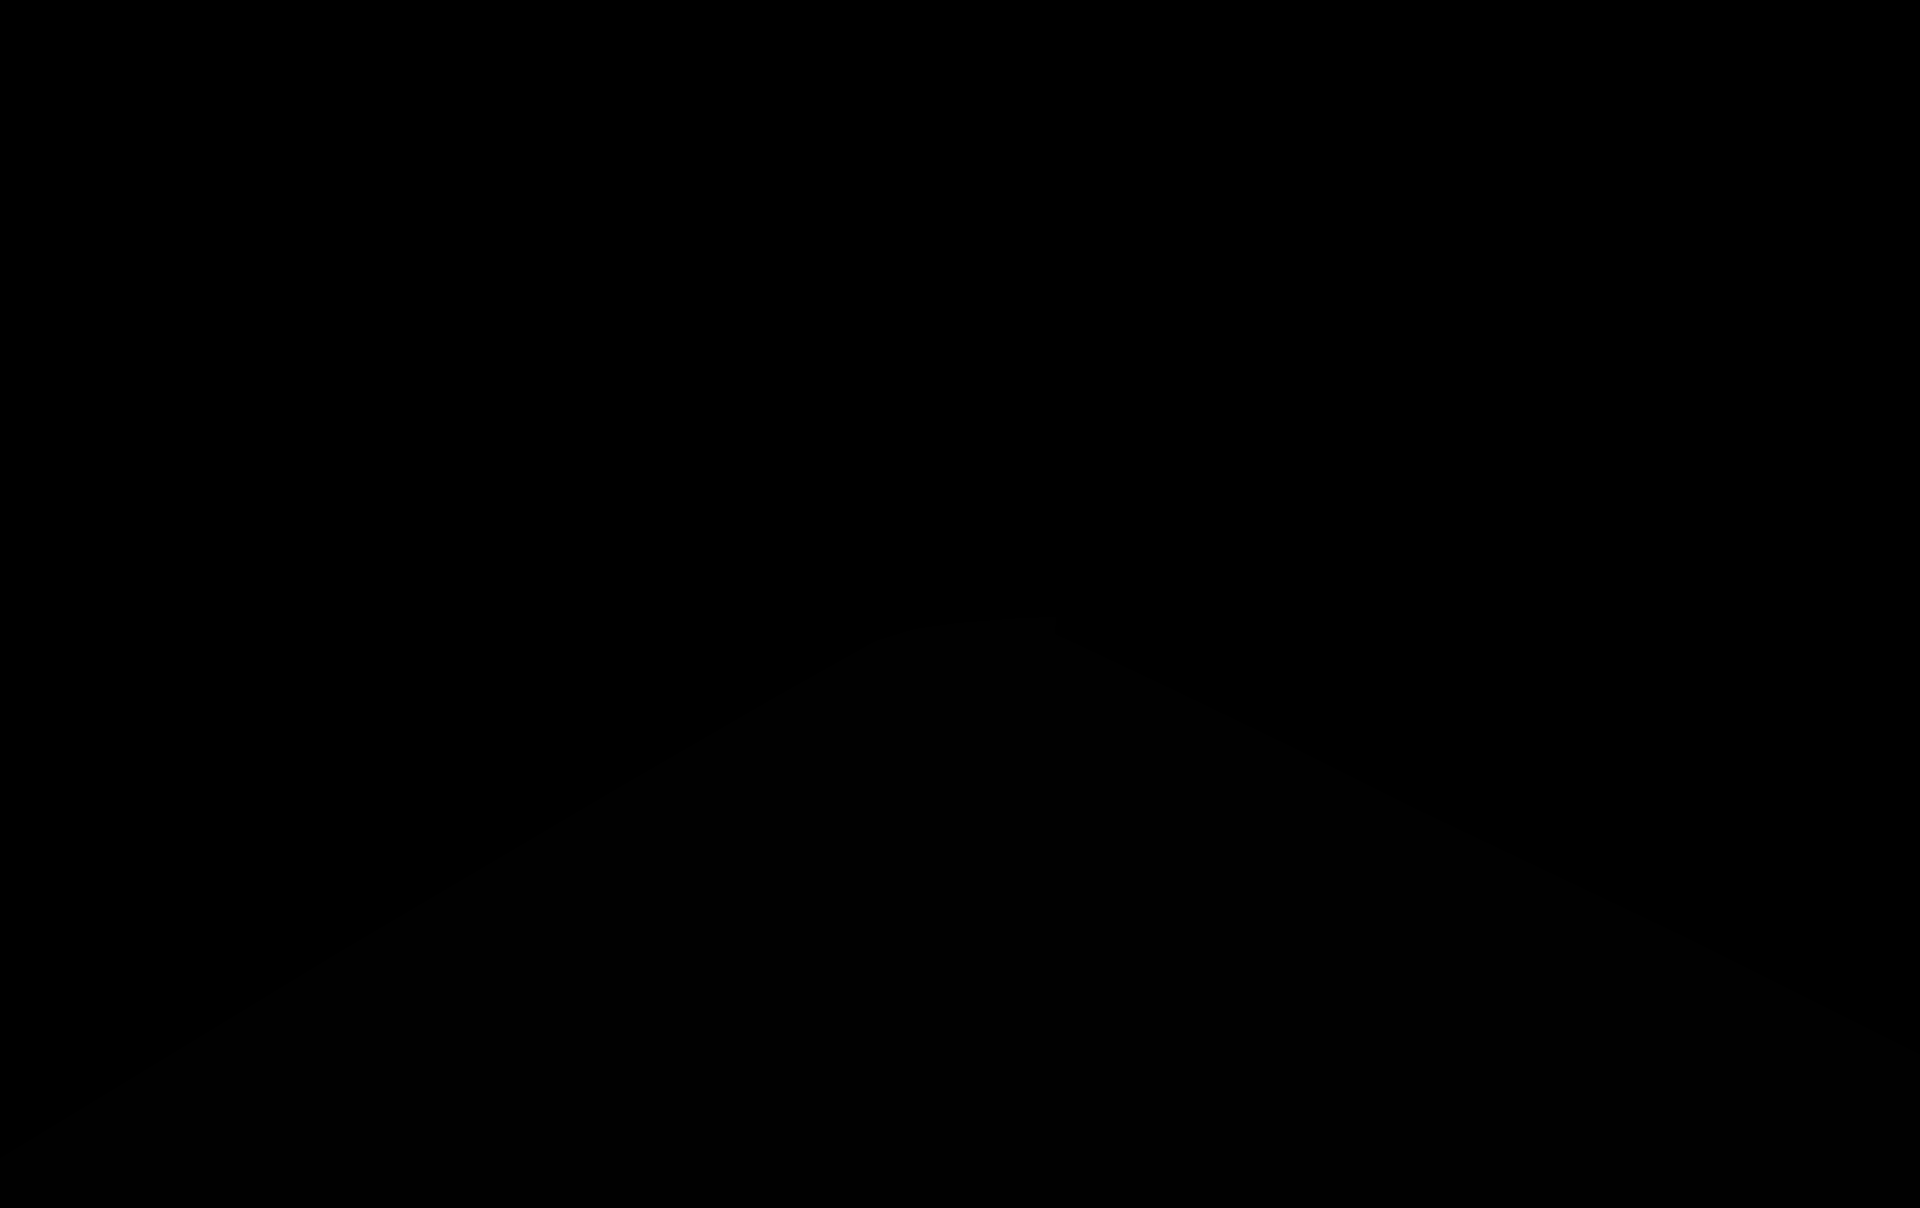
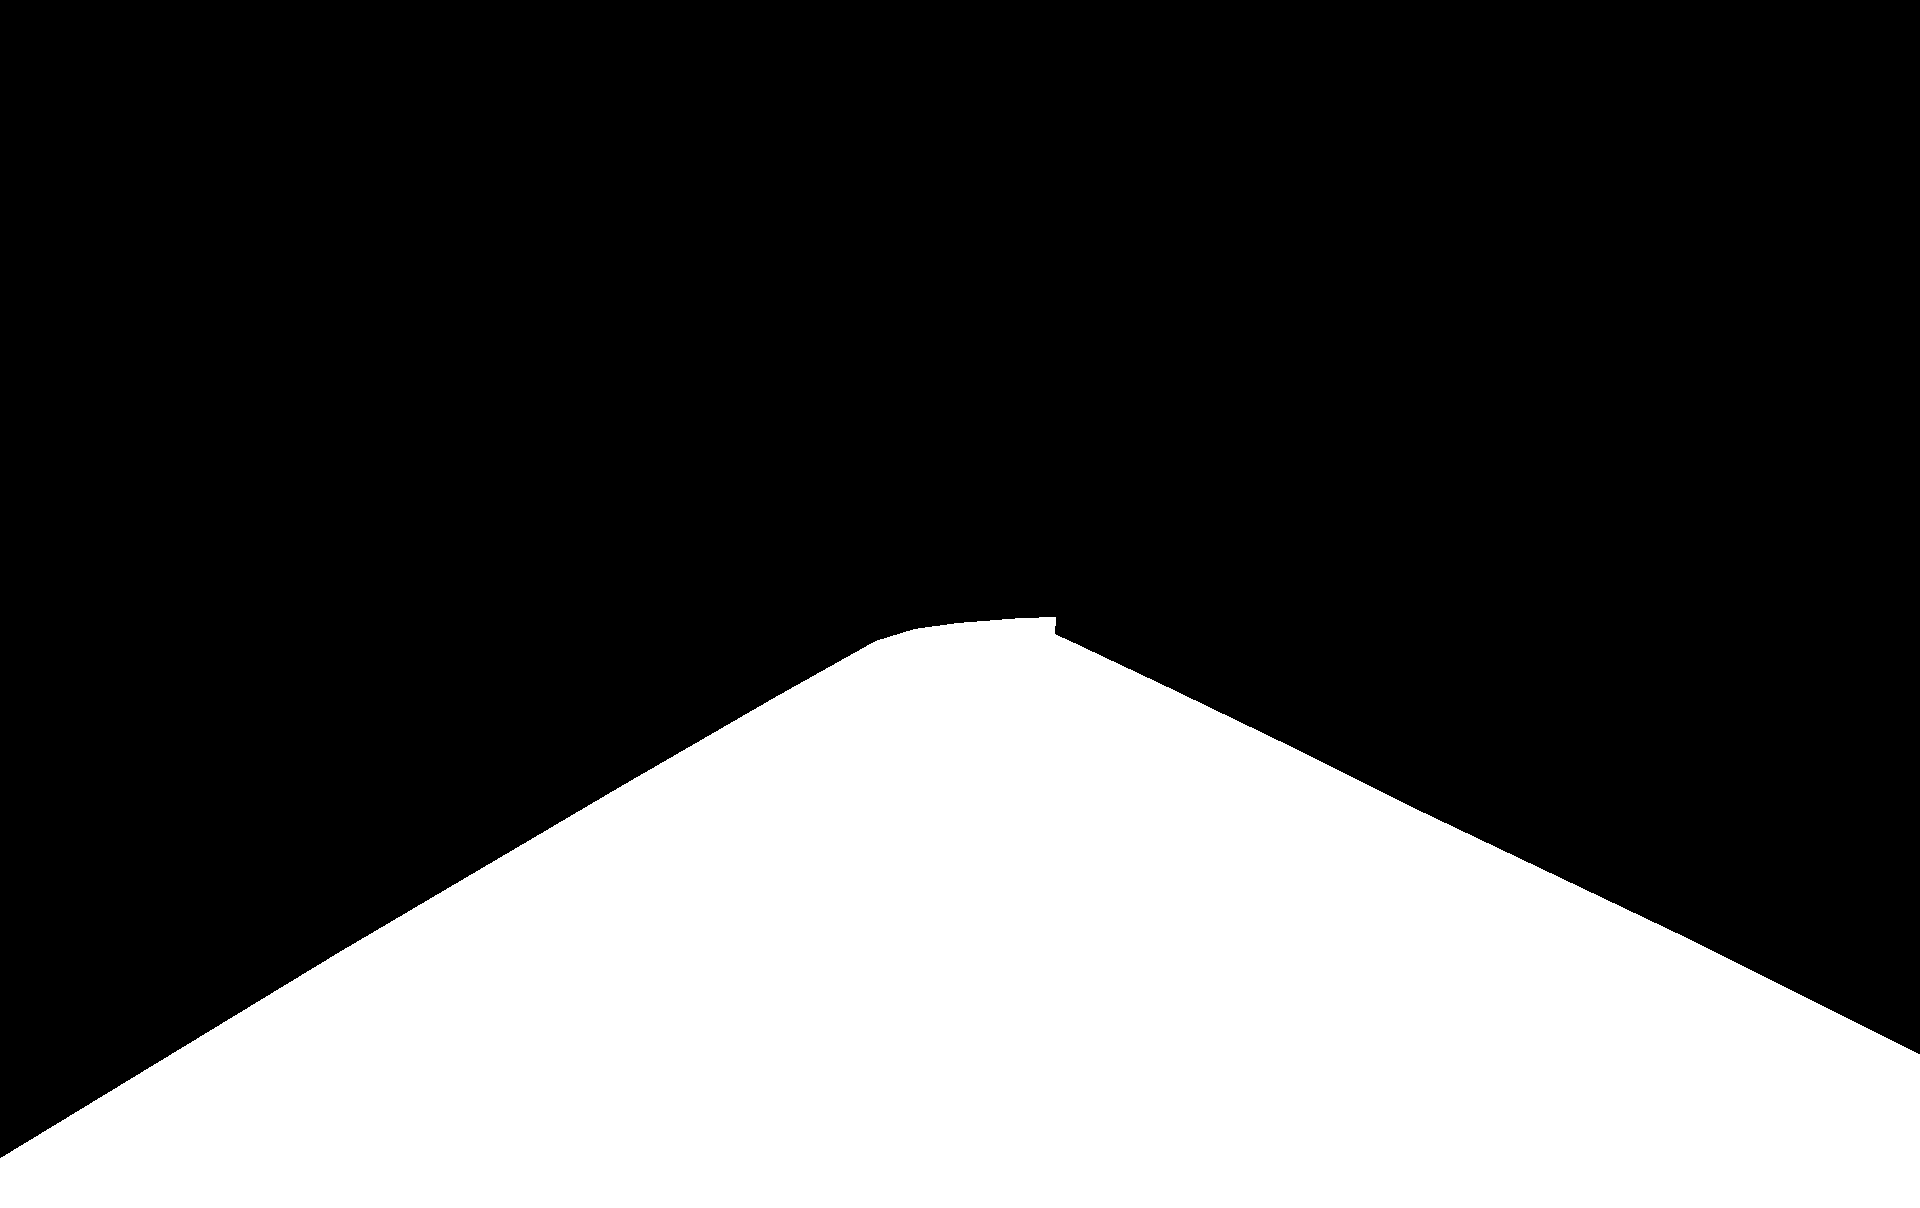
mask_color_update

Changed region(s): [[0.0, 0.4901, 1.0, 1.0]]

diff --git a/src/json2mask.py b/src/json2mask.py
@@ -41,7 +41,7 @@ for json_name in tqdm.tqdm(json_list):
         # Check the objects ‘classTitle’ is ‘Freespace’ or not.
         if obj['classTitle']=='Freespace':
             #########################################
-            mask = cv2.fillPoly(mask, np.array([obj['points']['exterior']]), color=1)
+            mask = cv2.fillPoly(mask, np.array([obj['points']['exterior']]), color=255)
             #########################################
 
     # Write mask image into MASK_DIR folder

diff --git a/src/mask_on_image.py b/src/mask_on_image.py
@@ -36,7 +36,7 @@ for mask_name in tqdm.tqdm(mask_list):
 
     #########################################
     image_copy = np.copy(image)
-    image_copy[mask==1, :] = (255, 0, 125)
+    image_copy[mask==255, :] = (255, 0, 125)
     #########################################
 
     # Write output image into IMAGE_OUT_DIR folder
